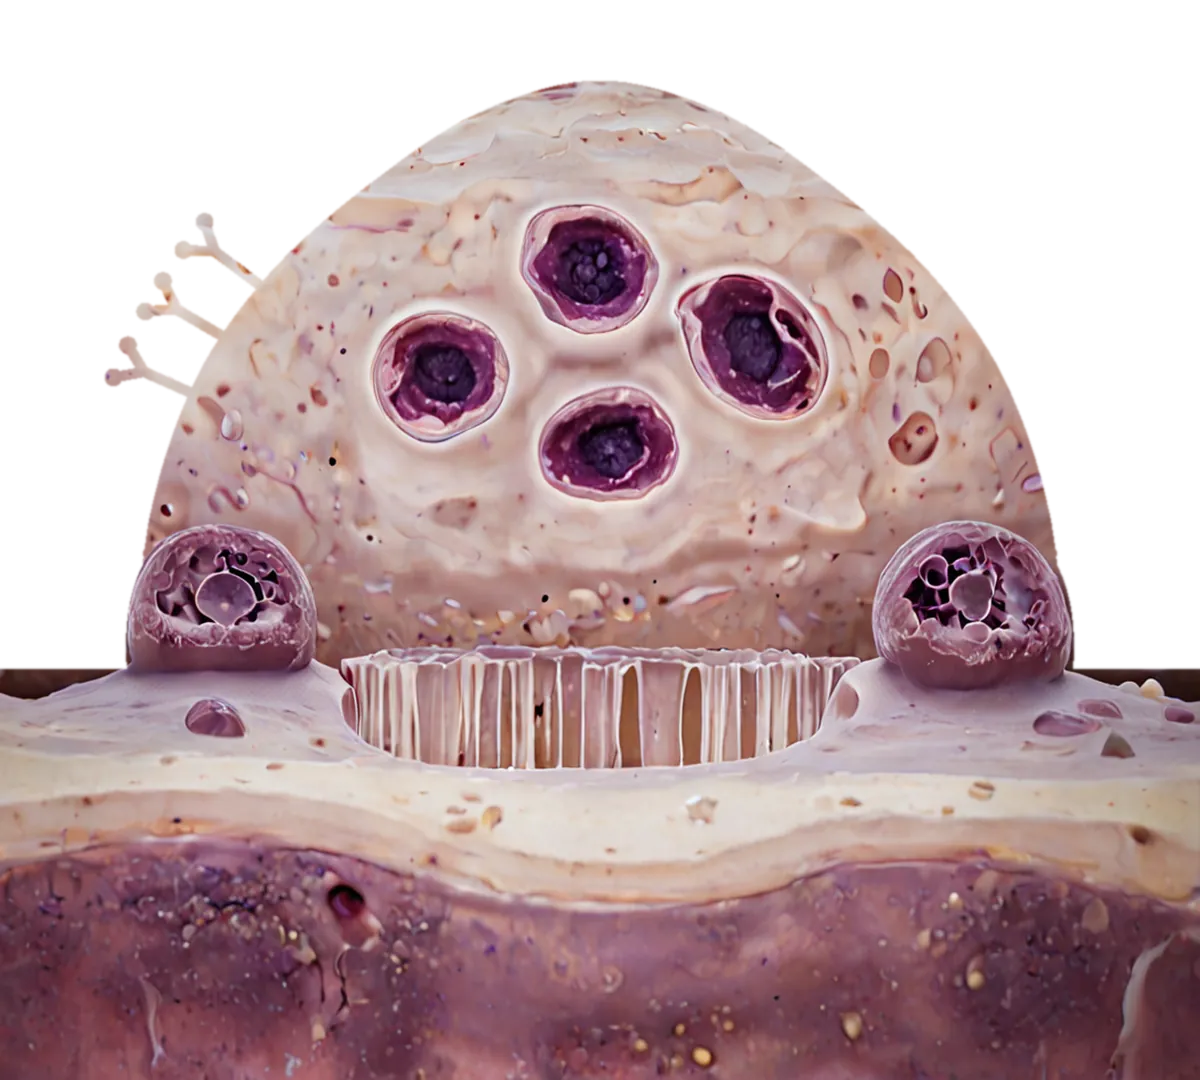
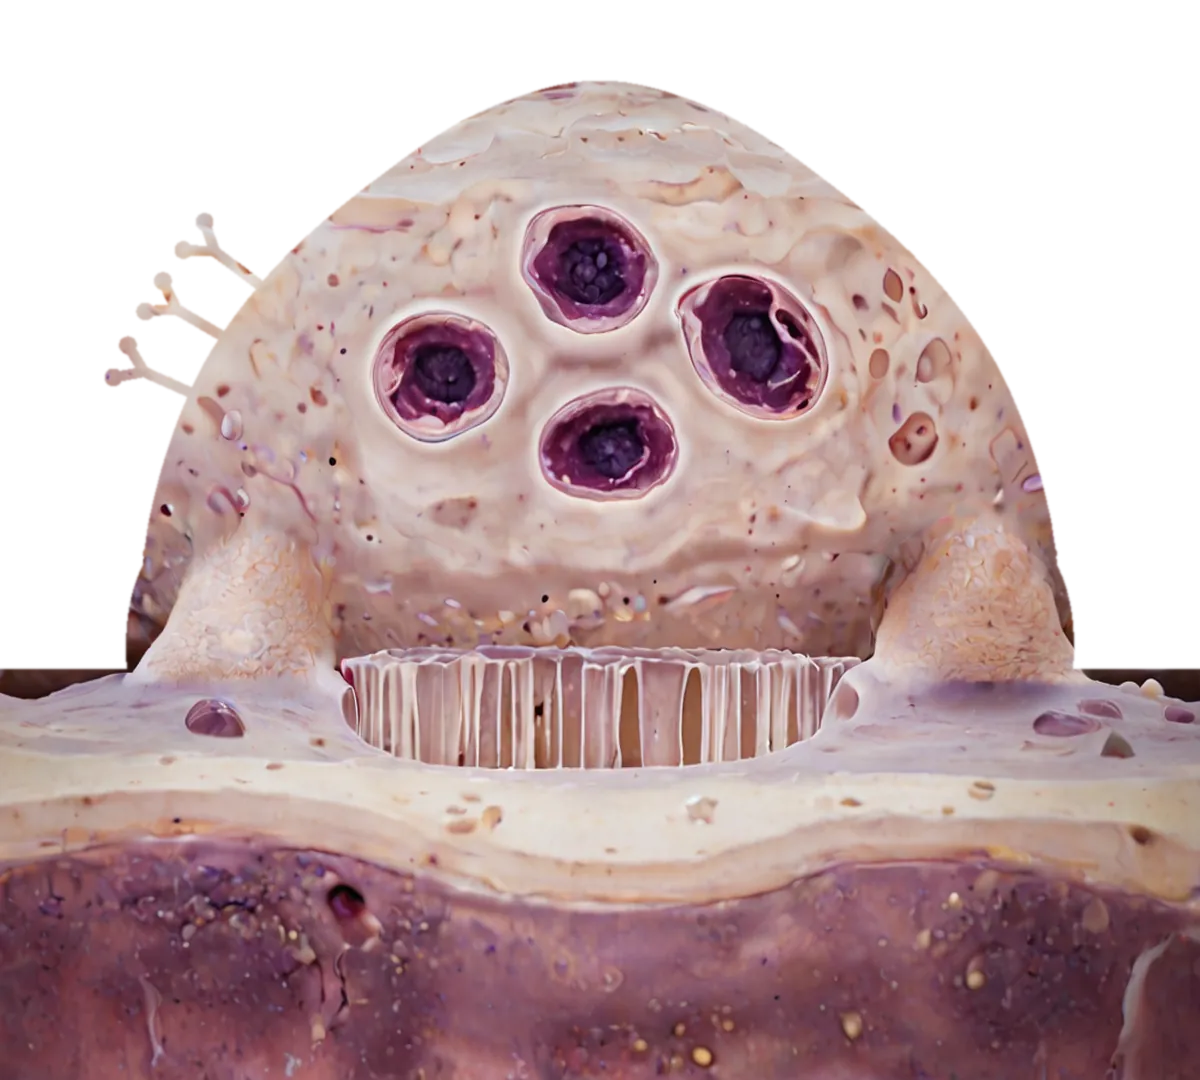
Osteoclasto corregido y orden corregir para retoques por capa
La zona clara del osteoclasto ya es el pie del citoplasma sellado contra
el hueso, no dos cuerpos aparte. tools/imagenes/imagenes.py corregir
repinta solo las capas indicadas, con la máscara sacada del SVG.

Para el detalle histológico no sirvió: las otras 9 ilustraciones siguen
con errores. Quedan listados en el README para decidir con el docente.

Changed region(s): [[0.7092, 0.4583, 0.925, 0.6417], [0.0925, 0.4583, 0.3083, 0.6417]]

diff --git a/tools/imagenes/imagenes.py b/tools/imagenes/imagenes.py
@@ -3,6 +3,8 @@
   preparar  NOMBRE...           SVG -> boceto de bordes (solo las estructuras que pinta la IA)
   generar   NOMBRE... [--n 4]   candidatas en dos pasadas (estructura guiada por los bordes del SVG + refinado
                                 realista) y hoja de revisión con los bordes superpuestos
+  corregir  NOMBRE... [--n 3]   repinta solo las zonas de `correcciones` del encargo (capas del SVG o regiones) sobre
+                                la candidata elegida, con su descripción precisa; hoja antes/después
   integrar  NOMBRE --semilla K  WebP en public/images, SVG de zonas encima y `fondo` en content.json
 
 Se ejecuta con el entorno de la GPU (fuera del repo, ver README): torch solo se importa en `generar`.
@@ -113,6 +115,7 @@ def cargar_pipeline(textos: list[tuple[str, str]]):
         DPMSolverMultistepScheduler,
         StableDiffusionXLAdapterPipeline,
         StableDiffusionXLImg2ImgPipeline,
+        StableDiffusionXLInpaintPipeline,
         T2IAdapter,
     )
 
@@ -156,7 +159,16 @@ def cargar_pipeline(textos: list[tuple[str, str]]):
         unet=pipe.unet,
         scheduler=pipe.scheduler,
     )
-    return pipe, refinador, codificados
+    repintor = StableDiffusionXLInpaintPipeline(
+        vae=pipe.vae,
+        text_encoder=None,
+        text_encoder_2=None,
+        tokenizer=pipe.tokenizer,
+        tokenizer_2=pipe.tokenizer_2,
+        unet=pipe.unet,
+        scheduler=pipe.scheduler,
+    )
+    return pipe, refinador, codificados, repintor
 
 
 def generar(
@@ -168,7 +180,7 @@ def generar(
 
     import torch
 
-    pipe, refinador, codificados = pipes
+    pipe, refinador, codificados, _ = pipes
     carpeta = TRABAJO / e["nombre"]
     bordes = Image.open(carpeta / "bordes.png").convert("RGB")
     w, h = bordes.size
@@ -204,6 +216,77 @@ def generar(
     hoja(carpeta, candidatas, bordes, sufijo)
 
 
+def textos_correccion(e: dict) -> list[tuple[str, str]]:
+    return [
+        (f"{c['prompt'].strip()}, {ESTILO}", f"{NEGATIVO}, {c.get('negativo', '')}".strip(", "))
+        for c in e.get("correcciones", [])
+    ]
+
+
+def mascara(e: dict, c: dict, ancho: int, alto: int) -> Image.Image:
+    """Máscara de una corrección a las medidas de trabajo: la silueta de sus `capas` en el SVG original, o sus
+    `elipses` ([cx, cy, rx, ry] en unidades del viewBox), ensanchada `crecer` píxeles y con el borde suavizado."""
+    from PIL import ImageFilter
+
+    texto = (TRABAJO / e["nombre"] / "original.svg").read_text(encoding="utf-8")
+    vw, vh = svg_fondo.viewbox(svg_fondo.leer(texto))
+    m = Image.new("L", (ancho, alto), 0)
+    if c.get("capas"):
+        capas = png_de_svg(svg_fondo.svg_solo_capas(texto, c["capas"]), ancho, alto, fondo=None)
+        m = capas.getchannel("A").point(lambda v: 255 if v > 8 else 0)
+    dibujo = ImageDraw.Draw(m)
+    for cx, cy, rx, ry in c.get("elipses", []):
+        sx, sy = ancho / vw, alto / vh
+        dibujo.ellipse([(cx - rx) * sx, (cy - ry) * sy, (cx + rx) * sx, (cy + ry) * sy], fill=255)
+    crecer = int(c.get("crecer", 10))
+    if crecer:
+        m = m.filter(ImageFilter.MaxFilter(2 * crecer + 1))
+    return m.filter(ImageFilter.GaussianBlur(4))
+
+
+def corregir(pipes, e: dict, n: int, pasos: int) -> None:
+    """Aplica en orden las `correcciones` del encargo a su candidata elegida (`semilla` + `sufijo`). Cada versión usa
+    otra semilla; se guardan como s{semilla}{sufijo}c{k}.png con una hoja antes/después."""
+    import math
+
+    import torch
+
+    _, _, codificados, repintor = pipes
+    carpeta = TRABAJO / e["nombre"]
+    base_nombre = f"s{e['semilla']}{e.get('sufijo', '')}"
+    base = Image.open(carpeta / f"{base_nombre}.png").convert("RGB")
+    w, h = base.size
+    versiones = []
+    for k in range(1, n + 1):
+        imagen = base
+        for i, c in enumerate(e["correcciones"]):
+            fuerza = float(c.get("fuerza", 0.85))
+            textos = codificados[textos_correccion(e)[i][0]]
+            imagen = repintor(
+                **textos,
+                image=imagen,
+                mask_image=mascara(e, c, w, h),
+                width=w,
+                height=h,
+                strength=fuerza,
+                num_inference_steps=math.ceil(pasos / fuerza),
+                guidance_scale=1.5,
+                generator=torch.Generator("cpu").manual_seed(100 * k + i),
+            ).images[0]
+        imagen.save(carpeta / f"{base_nombre}c{k}.png")
+        versiones.append((k, imagen))
+    lado = 560
+    esc = lado / max(w, h)
+    tw, th = round(w * esc), round(h * esc)
+    lienzo = Image.new("RGB", (tw * (n + 1) + 10 * n, th + 24), (24, 24, 28))
+    dib = ImageDraw.Draw(lienzo)
+    for i, (rotulo, im) in enumerate([("antes", base), *[(f"c{k}", v) for k, v in versiones]]):
+        dib.text((i * (tw + 10) + 6, 4), rotulo, fill=(230, 230, 230))
+        lienzo.paste(im.resize((tw, th)), (i * (tw + 10), 24))
+    lienzo.save(carpeta / "hoja_correccion.png")
+    print(f"{e['nombre']}: {n} correcciones; hoja en {carpeta / 'hoja_correccion.png'}", flush=True)
+
+
 def hoja(carpeta: Path, candidatas: list[tuple[int, Image.Image]], bordes: Image.Image, sufijo: str = "") -> None:
     """Hoja de revisión: cada candidata en pequeño, a la izquierda limpia y a la derecha con los bordes del SVG."""
     lado = 384
@@ -229,6 +312,7 @@ def integrar(e: dict, semilla: int, sufijo: str = "") -> None:
     texto = svg.read_text(encoding="utf-8")
     if svg_fondo.MARCA in texto:
         sys.exit(f"{svg.name} ya es un SVG de zonas: restaurar el original (git checkout) antes de integrar de nuevo")
+    (carpeta / "original.svg").write_text(texto, encoding="utf-8")
     raiz = svg_fondo.leer(texto)
     vw, vh = svg_fondo.viewbox(raiz)
     imagen = Image.open(carpeta / f"s{semilla}{sufijo}.png").convert("RGB")
@@ -260,7 +344,7 @@ def integrar(e: dict, semilla: int, sufijo: str = "") -> None:
 
 def main() -> None:
     a = argparse.ArgumentParser(description=__doc__, formatter_class=argparse.RawDescriptionHelpFormatter)
-    a.add_argument("accion", choices=["preparar", "generar", "integrar"])
+    a.add_argument("accion", choices=["preparar", "generar", "corregir", "integrar"])
     a.add_argument("nombres", nargs="*", help="encargos (por defecto, todos los de encargos.yaml)")
     a.add_argument("--n", type=int, default=4)
     a.add_argument("--semilla", type=int, default=1)
@@ -283,6 +367,15 @@ def main() -> None:
         pipes = cargar_pipeline([prompts(e) for e in elegidos])
         for e in elegidos:
             generar(pipes, e, args.n, args.semilla, args.pasos, args.escala, args.factor, args.refinar, args.sufijo)
+    elif args.accion == "corregir":
+        elegidos = [e for e in elegidos if e.get("correcciones")]
+        for e in elegidos:
+            (TRABAJO / e["nombre"] / "original.svg").write_text(
+                ruta_svg(e).read_text(encoding="utf-8"), encoding="utf-8"
+            )
+        pipes = cargar_pipeline([t for e in elegidos for t in textos_correccion(e)])
+        for e in elegidos:
+            corregir(pipes, e, args.n, args.pasos)
     else:
         if len(elegidos) != 1:
             a.error("integrar: un solo encargo y su --semilla")

diff --git a/tools/imagenes/svg_fondo.py b/tools/imagenes/svg_fondo.py
@@ -160,6 +160,21 @@ def _pinta_relleno(e: ET.Element, padres: dict) -> bool:
     return True  # relleno por defecto de SVG: negro
 
 
+def svg_solo_capas(texto: str, capas: list[str]) -> str:
+    """Copia del SVG con solo las formas de las capas `capas` (para las máscaras de corrección): el resto se quita."""
+    raiz = leer(texto)
+    padres = _padres(raiz)
+    ids = set(capas)
+    for e in list(raiz.iter()):
+        if _local(e.tag) not in FORMAS and _local(e.tag) != "text":
+            continue
+        if e.get("id") in ids or _dentro_de(e, padres, lambda n: n.get("id") in ids):
+            continue
+        if e in padres:
+            padres[e].remove(e)
+    return escribir(raiz)
+
+
 def _de_color(e: ET.Element, colores) -> bool:
     """Forma pintada con uno de `colores` (flechas o marcas sueltas dentro de un grupo de fondo)."""
     return _local(e.tag) in FORMAS and (e.get("fill") or "").lower() in {c.lower() for c in colores}

diff --git a/tools/imagenes/tests/test_svg_fondo.py b/tools/imagenes/tests/test_svg_fondo.py
@@ -132,3 +132,10 @@ def test_capa_de_solo_contorno_recibe_zona_tactil_ancha():
     _, raiz = _como_zonas()
     linea = raiz.find(".//*[@id='fibras']/*[@data-zona-toque]/s:path", NS)
     assert linea.get("stroke") == "transparent" and float(linea.get("stroke-width")) >= 137
+
+
+def test_svg_solo_capas_deja_solo_las_formas_pedidas():
+    raiz = svg_fondo.leer(svg_fondo.svg_solo_capas(SVG, ["nucleo"]))
+    assert raiz.find(".//*[@id='nucleo']/s:ellipse", NS) is not None
+    assert raiz.find(".//*[@id='hueso']/s:path", NS) is None
+    assert not raiz.findall(".//s:text", NS)

diff --git a/tools/imagenes/README.md b/tools/imagenes/README.md
@@ -122,6 +122,29 @@ uvx ruff check tools/imagenes --config tools/imagenes/ruff.toml && uvx ruff form
 **La pauta.** El modelo acierta con los tejidos y la histología. Falla con los dientes, la anatomía macroscópica
 compleja y los orgánulos. Para esos casos, la vía exacta es un modelo 3D o un render hecho a mano, no la IA.
 
+## Corrección por capas (`corregir`) y errores pendientes (2026-10-18)
+
+`corregir` repinta solo las zonas de las capas indicadas en `correcciones` del encargo (máscara sacada del SVG) con una
+descripción precisa. Funciona para retoques locales de forma: así se corrigió la zona clara del osteoclasto, que ahora
+es un pie del citoplasma y no dos cuerpos aparte. **No funciona para detalle histológico**: en 9 ilustraciones el
+modelo inventó órganos, picos y cavidades en lugar de laminillas, lagunas o células. Tampoco sirvió un render
+determinista del SVG (exacto, pero con aspecto de plástico) ni la IA a baja intensidad sobre él (sigue siendo
+esquema).
+
+**Errores que siguen en las ilustraciones publicadas, a resolver con el docente:**
+
+| SVG | Error |
+|---|---|
+| `m1_entretejido_laminar` | El hueso laminar sale como bandas con cavidades. |
+| `m1_corte_hueso_capas` | La cortical es pardo rojiza, con aspecto de músculo. |
+| `m1_osteona_detalle` | No se ven las lagunas ni los canalículos. |
+| `m2_ligamento_periodontal` | Raíz con morfología irreal; células como anillos. |
+| `m3_osteoide_hueso_inmaduro` | Osteoblastos como cajas; osteocitos como dianas. |
+| `m3_osteocito_red_lacuno_canalicular` | Células de revestimiento como rebanadas; capilar como diana. |
+| `m4_frente_mineralizacion` | Osteoblastos como cajas; vesículas gigantes. |
+| `m6_tejido_oseo_envejecido` | Osteona con radios en vez de laminillas concéntricas; adipocitos rellenos. |
+| `m6_hueso_normal_osteoporotico` | Aspecto de piedra; la cortical osteoporótica sale gruesa. |
+
 ## Qué SVG convertir (propuesta, a revisar con el docente)
 
 **Escenas anatómicas, histológicas o celulares: ganan con la ilustración.**
